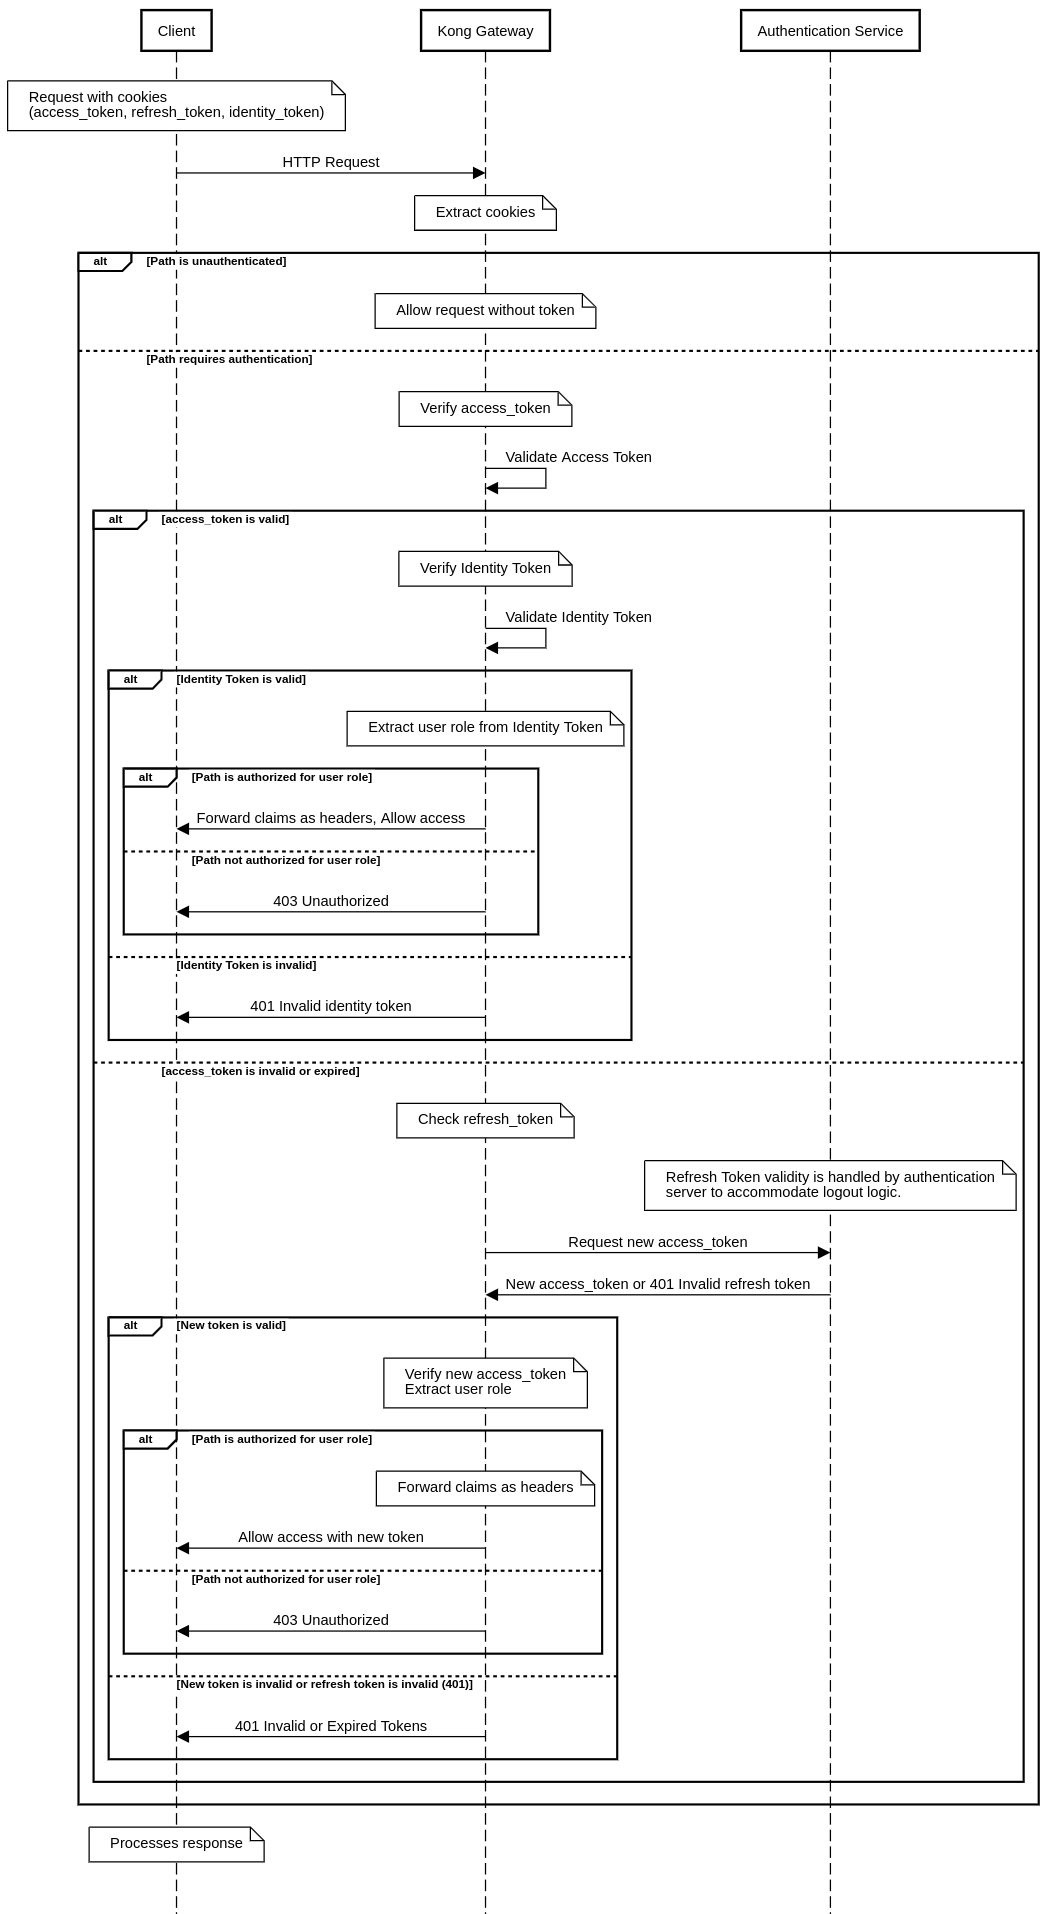
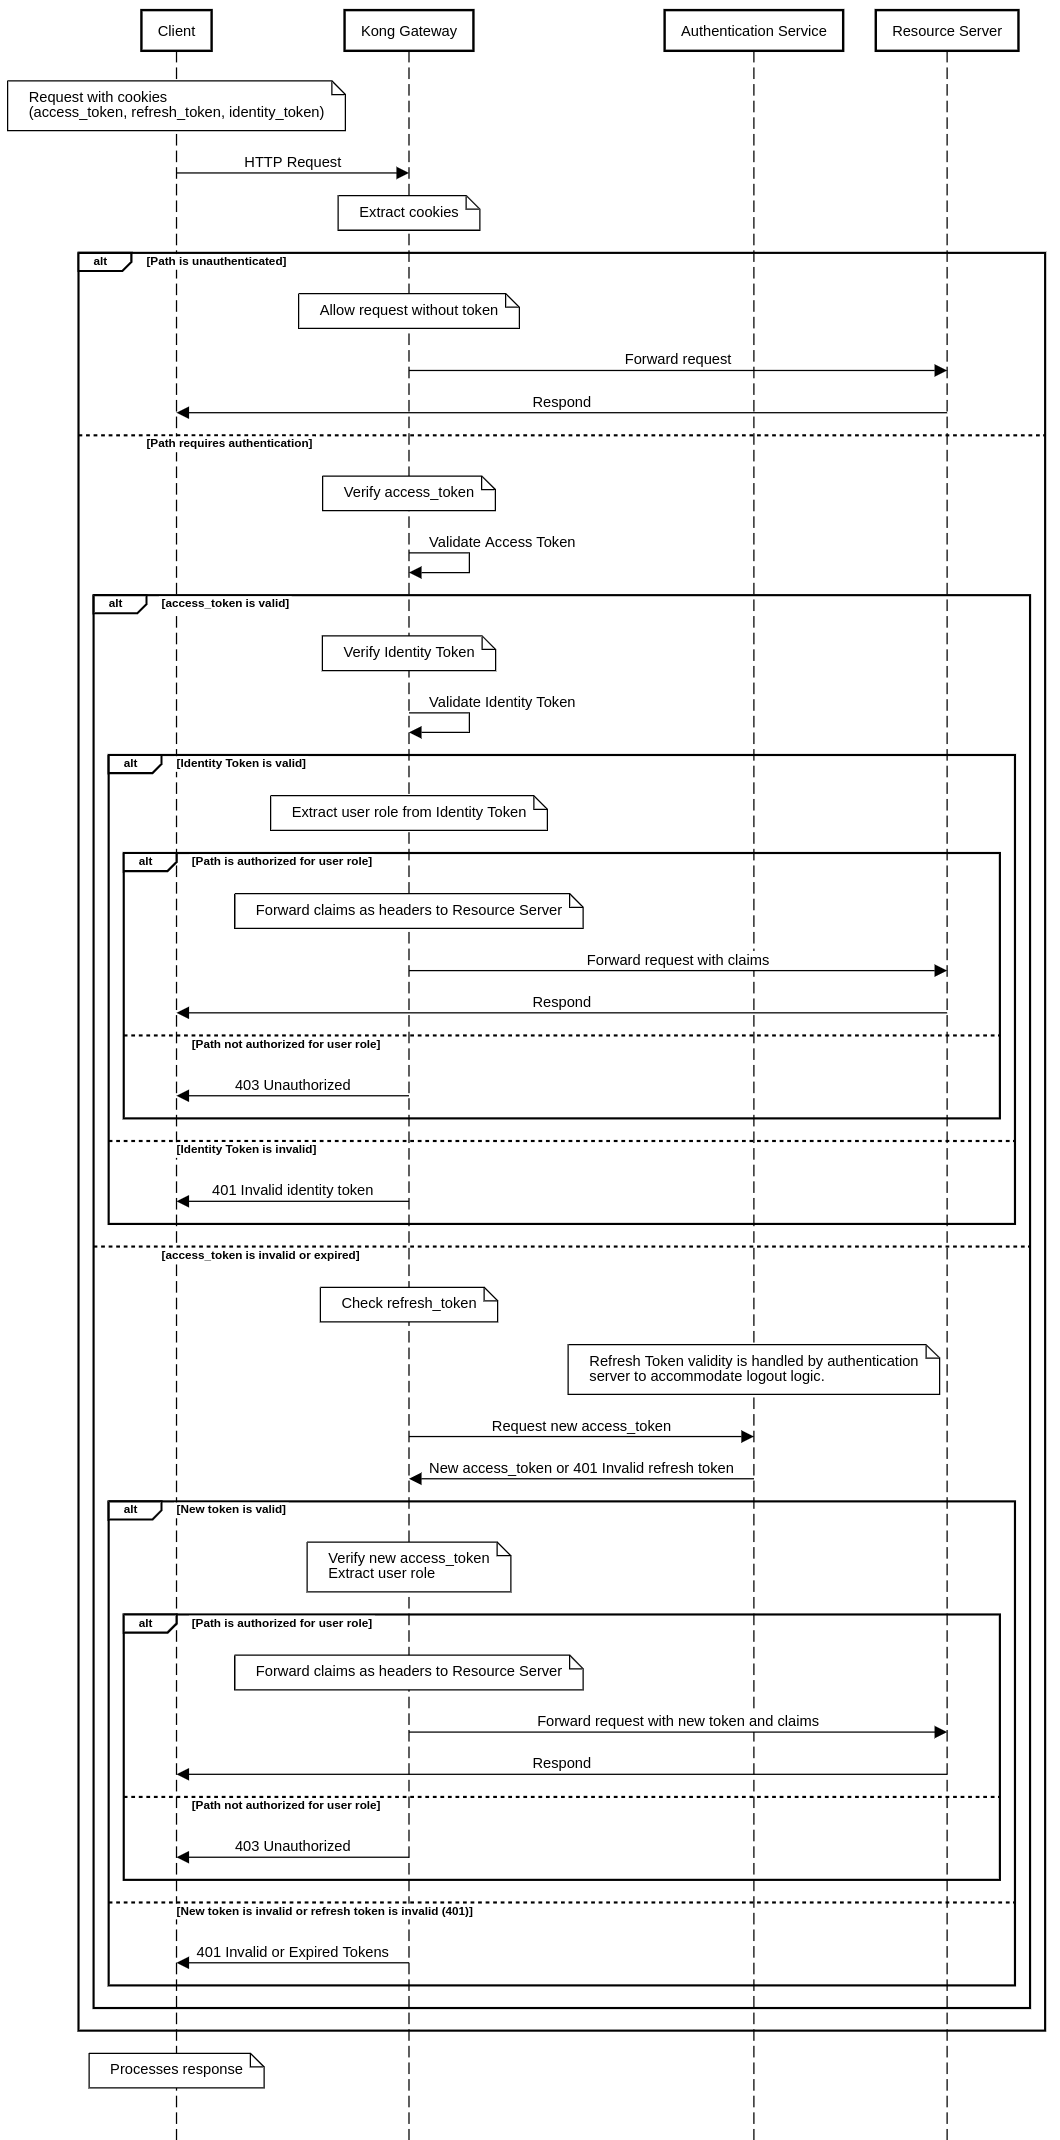
fix(authn-kong): fix the sequence diagram

diff --git a/kong/Sequence.md b/kong/Sequence.md
@@ -1,6 +1,7 @@
 participant Client
 participant Kong Gateway
 participant Authentication Service
+participant Resource Server
 
 note over Client: Request with cookies\n(access_token, refresh_token, identity_token)
 
@@ -9,6 +10,8 @@ note over Kong Gateway: Extract cookies
 
 alt Path is unauthenticated
     note over Kong Gateway: Allow request without token
+    Kong Gateway->Resource Server: Forward request
+    Resource Server->Client: Respond
 else Path requires authentication
     note over Kong Gateway: Verify access_token
     Kong Gateway->Kong Gateway: Validate Access Token
@@ -19,7 +22,9 @@ else Path requires authentication
         alt Identity Token is valid
             note over Kong Gateway: Extract user role from Identity Token
             alt Path is authorized for user role
-                Kong Gateway->Client: Forward claims as headers, Allow access
+                note over Kong Gateway: Forward claims as headers to Resource Server
+                Kong Gateway->Resource Server: Forward request with claims
+                Resource Server->Client: Respond
             else Path not authorized for user role
                 Kong Gateway->Client: 403 Unauthorized
             end
@@ -35,8 +40,9 @@ else Path requires authentication
         alt New token is valid
             note over Kong Gateway: Verify new access_token\nExtract user role
             alt Path is authorized for user role
-                note over Kong Gateway: Forward claims as headers
-                Kong Gateway->Client: Allow access with new token
+                note over Kong Gateway: Forward claims as headers to Resource Server
+                Kong Gateway->Resource Server: Forward request with new token and claims
+                Resource Server->Client: Respond
             else Path not authorized for user role
                 Kong Gateway->Client: 403 Unauthorized
             end
